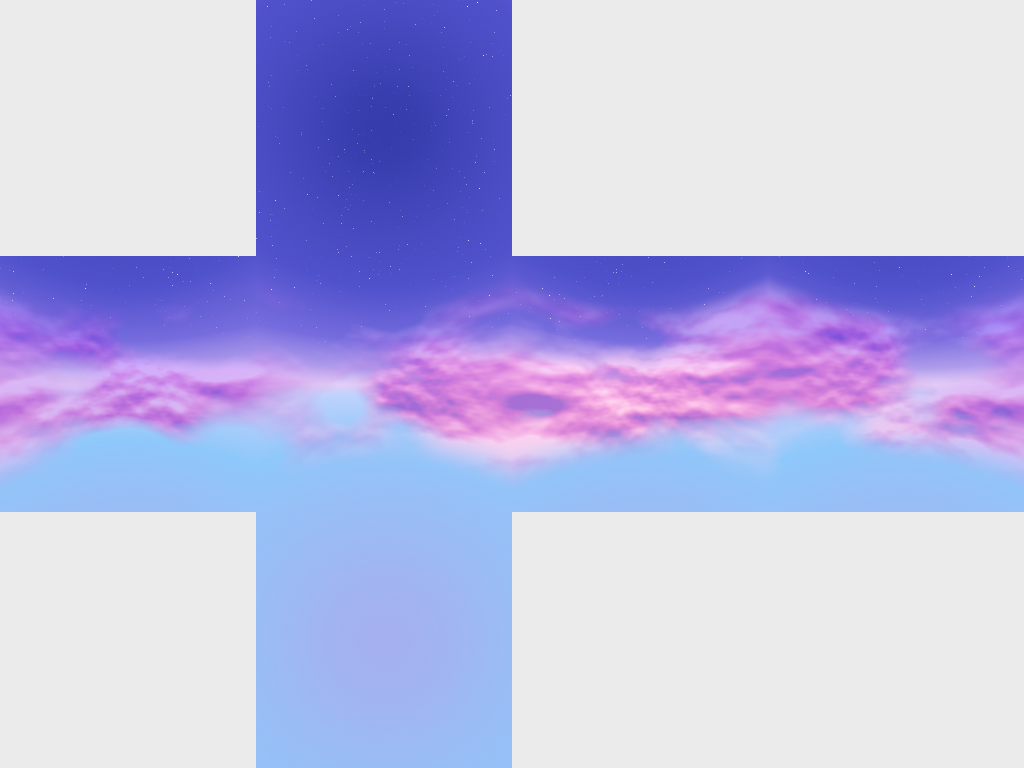
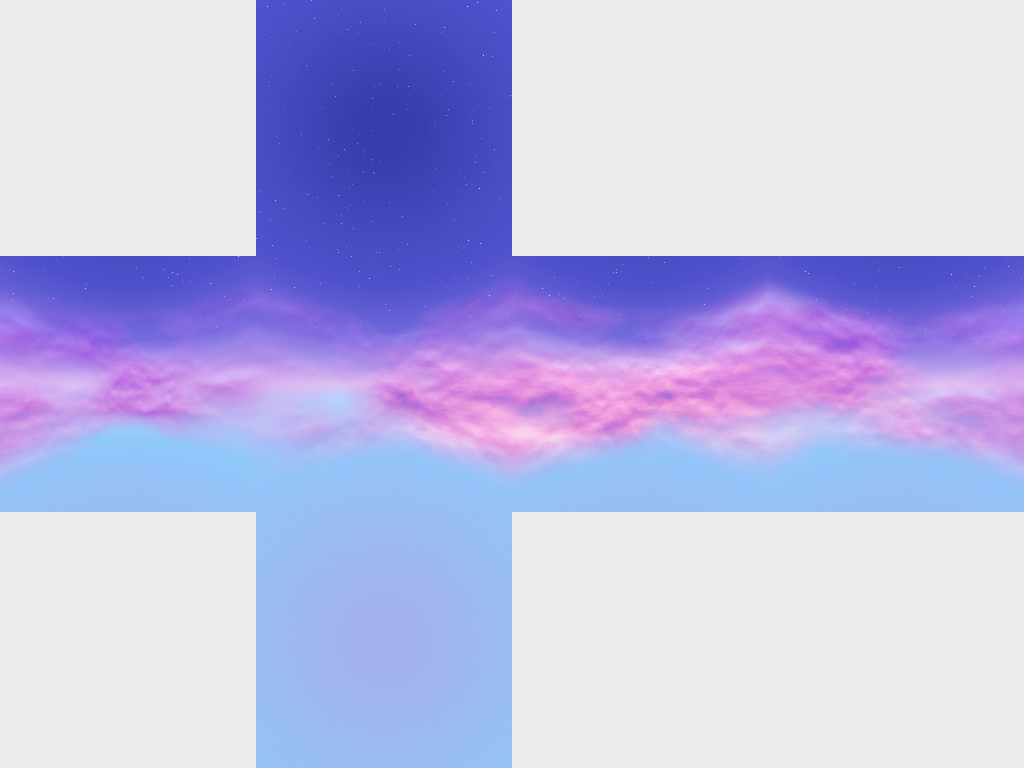
Phase 5 wave 1: data (teams of 3, dungeon, berries, settings, P5 migrations), battle core rewrite, 11-station economy + HomeRoam + TokenLook, WorldStyle + lighting + Blender sky
Claude-Session: https://claude.ai/code/session_01B52WUyKndnHf2SJWaE6zsK

diff --git a/nimbus-climb/blender/sky/render_sky.py b/nimbus-climb/blender/sky/render_sky.py
@@ -52,13 +52,16 @@ CLOUD_SHADE = [
     (0.60, (248, 192, 236)),  # light pink
     (0.90, (255, 238, 250)),  # sunlit tops: pale pink-white
 ]
-CLOUD_SCALE = 1.25        # the fBm (detail) octave
+CLOUD_SCALE = 1.4         # the fBm (detail) octave
 CLOUD_BIG_SCALE = 0.9    # the larger octave: rounder, bigger heaps
-CLOUD_BIG_WEIGHT = 0.6   # its share of the density
+CLOUD_BIG_WEIGHT = 0.65  # its share of the density
+CLOUD_DETAIL = 6           # fBm octaves of the detail noise (crisper puff edges)
+CLOUD_ROUGHNESS = 0.5
+CLOUD_LIGHT_CONTRAST = 4.0  # top-lit vs shaded: low = soft, no dark bruises
 CLOUD_SQUASH = 1.8        # clouds are wider than tall
-CLOUD_THRESHOLD = 0.465    # higher = fewer clouds
+CLOUD_THRESHOLD = 0.43    # higher = fewer clouds
 CLOUD_LOW_BONUS = 0.05    # more cover toward the horizon
-CLOUD_SOFTNESS = 10.0      # edge sharpness of the puffs
+CLOUD_SOFTNESS = 6.0      # edge sharpness of the puffs
 BAND = math.radians(32)   # clouds only between -32 and +32 degrees
 STAR_SCALE_PER_PX = 0.11  # Voronoi cells per pixel of face width (small stars at every resolution)
 STAR_FRACTION = 0.14      # share of the cells that hold a star
@@ -192,8 +195,8 @@ squash = node("ShaderNodeMapping")
 L.new(D, squash.inputs["Vector"])
 squash.inputs["Scale"].default_value = (1.0, 1.0, CLOUD_SQUASH)
 V = squash.outputs[0]
-fine = noise(V, CLOUD_SCALE, 4, 0.45)
-fine_up = noise(V, CLOUD_SCALE, 4, 0.45, offset=(0.0, 0.0, 0.09))   # sampled toward the light: the puffs are lit from above
+fine = noise(V, CLOUD_SCALE, CLOUD_DETAIL, CLOUD_ROUGHNESS)
+fine_up = noise(V, CLOUD_SCALE, CLOUD_DETAIL, CLOUD_ROUGHNESS, offset=(0.0, 0.0, 0.09))   # sampled toward the light: the puffs are lit from above
 big = noise(V, CLOUD_BIG_SCALE, 1, 0.5, offset=(3.1, 1.7, 0.0))      # the one larger octave (rounder heaps)
 base = op("ADD", op("MULTIPLY", fine, 1.0 - CLOUD_BIG_WEIGHT), op("MULTIPLY", big, CLOUD_BIG_WEIGHT))
 sinBand = math.sin(BAND)
@@ -207,7 +210,7 @@ bot = smooth(Z, -sinBand, -sinBand * 0.55)
 dens = op("MULTIPLY", op("MULTIPLY", dens, top), bot)
 # lighting: >0 where a puff's top faces the light; thicker cloud slightly darker
 shade = op("SUBTRACT", fine, fine_up)
-shade = op("ADD", op("MULTIPLY", shade, 7.0), 0.52)
+shade = op("ADD", op("MULTIPLY", shade, CLOUD_LIGHT_CONTRAST), 0.52)
 shade = op("ADD", shade, op("MULTIPLY", op("SUBTRACT", base, CLOUD_THRESHOLD + 0.1), -0.6))
 shade = op("MINIMUM", op("MAXIMUM", shade, 0.0), 1.0)
 CLOUD = ramp(shade, CLOUD_SHADE)

diff --git a/nimbus-climb/BUILD_STATE.md b/nimbus-climb/BUILD_STATE.md
@@ -51,8 +51,8 @@ Request + approved decisions: scratchpad/phase5_request.md (player said "go!").
 | D | design: 4 designers (battle, dungeon Fable; home, world Opus) -> lead (Fable) contract in ARCHITECTURE_V3 "## Phase 5" -> judge (Opus) -> lead fix | DONE wf_9b76bb34-5d6: contract in ARCHITECTURE_V3 "## Phase 5" (sections 0-13; waves in 10, ownership 11, tests 12, owner checklist 10.6); designs scratchpad/p5design/design:*/ ; judge p5design/judge/review.md fixed |
 | R | show scratchpad/p5design/summary_for_player.md to the player, get OK | OK given ("go") |
 | W0 | lead (Fable): section 10.1 shared edits, fixtures, baseline log scratchpad/p5_w0_baseline.log | DONE wf_872fc5c9-bc1: baseline 9024/0; gate 9033/5 (known red for W1: p3battle_catalog x2 + p3fixsrv_trial1 = Rally/Haste in BattleCatalog, battlecore W1); StormAltar MAX_PARTS 500 done by lead. Notes scratchpad/p5_wave0_notes.md |
-| W1 | data F, battlecore F, economy+roam O, worldstyle O | RUNNING wf_63badf7b-be9 (args scratchpad/p5jobs/w1.json; resume with the SAME args) |
-| W2 | battleservice F, tycoon+care F, worldlobby O, homeworld O, neonkit O | - |
+| W1 | data F, battlecore F, economy+roam O, worldstyle O | DONE wf_63badf7b-be9 (resumed after a container restart). sim_battle 36/36, sim_tycoon ALL MET (C10 floor 115 for ring+dungeon), sky in branding/sky. Notes scratchpad/p5_wave1_notes.md; carry list scratchpad/p5jobs/carry.md |
+| W2 | battleservice F, tycoon+care F, worldlobby O, homeworld O, neonkit O | RUNNING (args scratchpad/p5jobs/w2.json) |
 | W3 | dungeon F, battleclient O, homefx+pets O, careui O, menu O | - |
 | W4 | dungeonclient, tutorial, docs, flow, arenaart (all O) | - |
 | W5 | review (3 lenses) + fix + release gate + rbxlx + merge + send | - |
